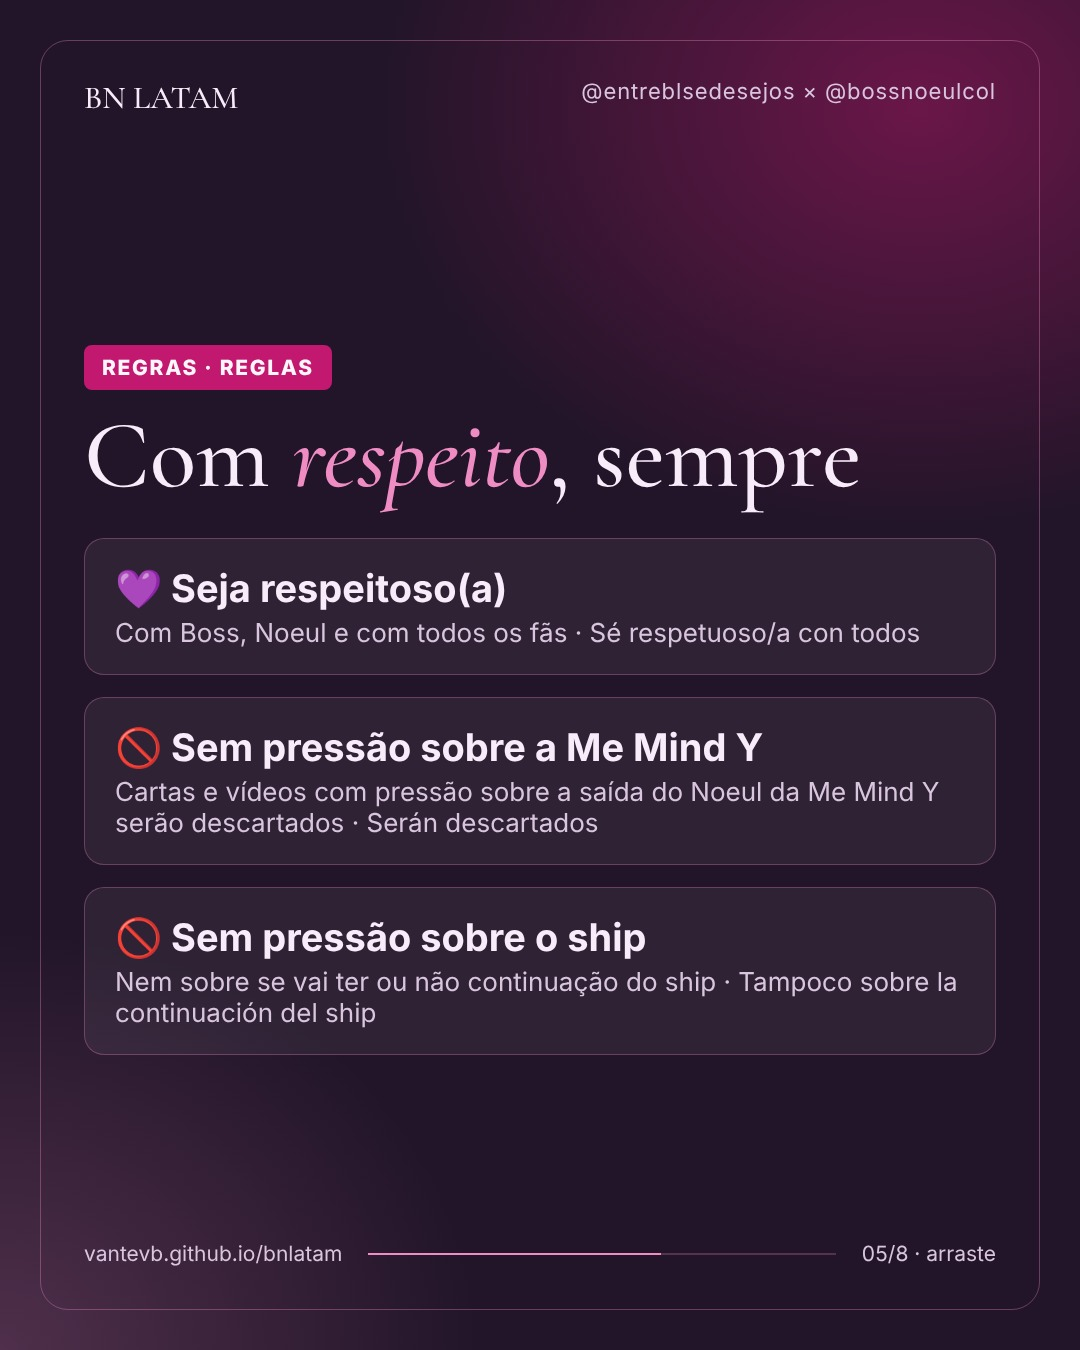
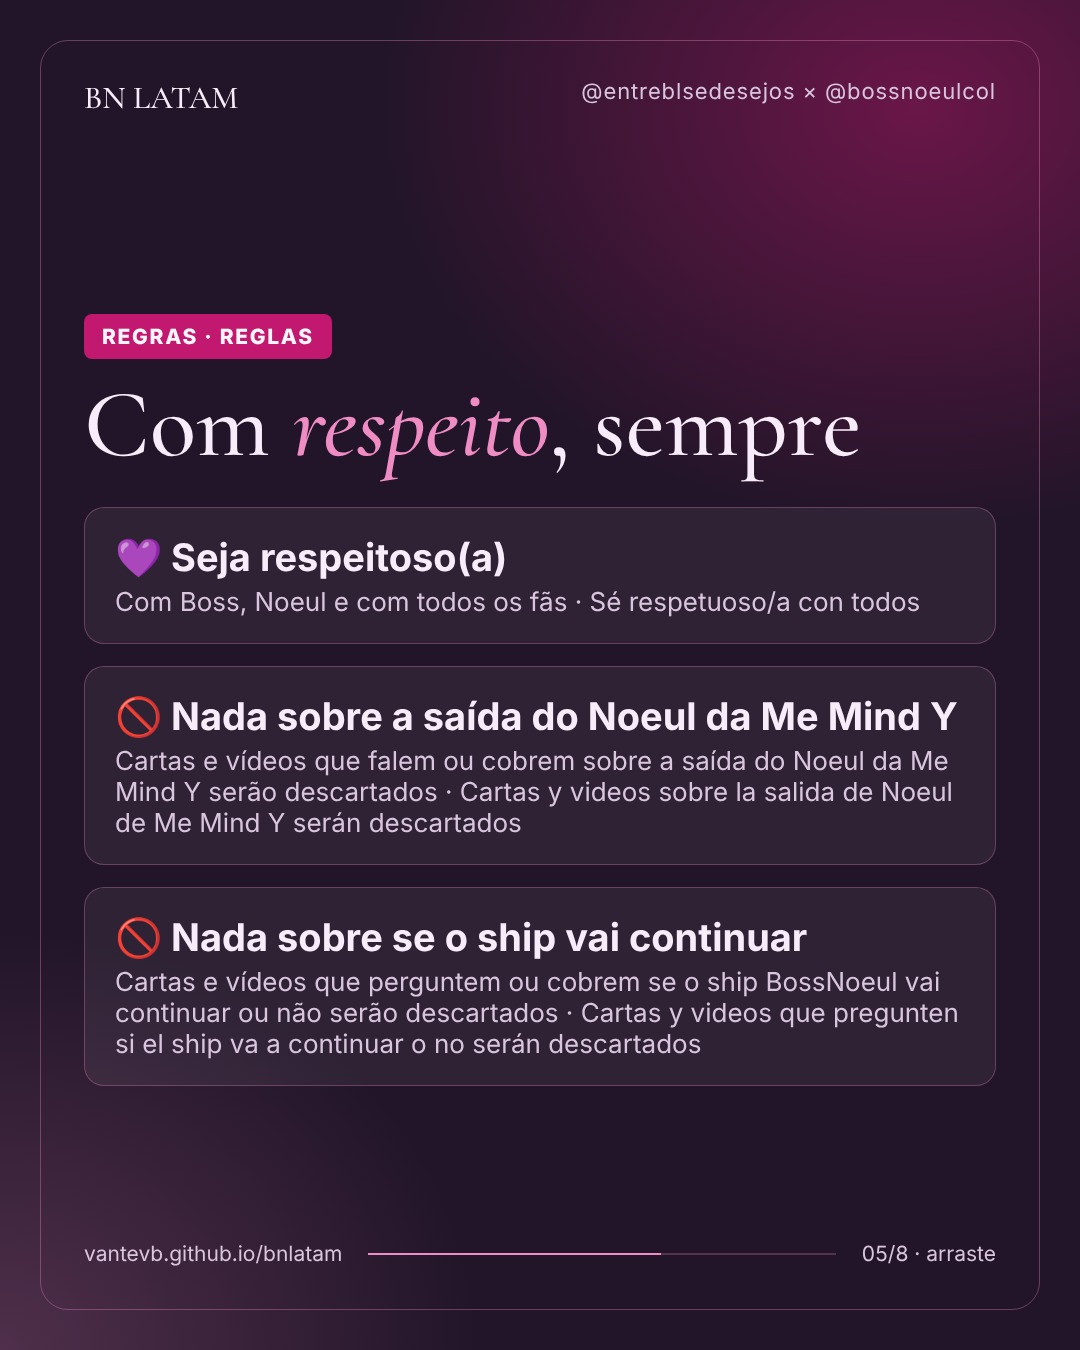
Regras mais claras: saída do Noeul da Me Mind Y e continuação do ship
Claude-Session: https://claude.ai/code/session_01MRpdQbs4myKLU8PEdSBy3X

Changed region(s): [[0.0611, 0.2178, 0.8861, 0.6222], [0.0917, 0.6844, 0.8861, 0.7778], [0.55, 0.3111, 0.7944, 0.4044]]

diff --git a/index.html b/index.html
@@ -189,8 +189,8 @@ button:focus-visible,a:focus-visible,summary:focus-visible{outline:2px solid var
         <h3 class="rules-t" data-i18n="rulesTitle">Rules</h3>
         <ul class="kinds rules">
           <li><b data-i18n="r1t">Be respectful</b><span data-i18n="r1d">With Boss, Noeul and every fan.</span></li>
-          <li class="no"><b data-i18n="r2t">No pressure about Me Mind Y</b><span data-i18n="r2d">Letters and videos pressuring about Noeul leaving Me Mind Y will be discarded.</span></li>
-          <li class="no"><b data-i18n="r3t">No pressure about the ship</b><span data-i18n="r3d">Letters and videos pressuring about whether the ship will continue or not will also be discarded.</span></li>
+          <li class="no"><b data-i18n="r2t">Nothing about Noeul leaving Me Mind Y</b><span data-i18n="r2d">Letters and videos that mention or push about Noeul leaving Me Mind Y will be discarded.</span></li>
+          <li class="no"><b data-i18n="r3t">Nothing about whether the ship will continue</b><span data-i18n="r3d">Letters and videos that ask or push about whether the BossNoeul ship will continue or not will also be discarded.</span></li>
         </ul>
       </div>
       <div class="side">
@@ -237,9 +237,9 @@ button:focus-visible,a:focus-visible,summary:focus-visible{outline:2px solid var
 
 <script>
 const I18N={
- en:{navHow:'How it works',navSend:'Send yours',navWall:'Messages',navFaq:'FAQ',eyebrow:'From Latin America, with love',lead:'Letters, drawings and videos from fans all over Latin America who could not be close to Boss and Noeul, but wanted them to know how much they mean to us.',ctaSend:'Send your message',ctaWall:'See the messages',howTitle:'How it works',howSub:'Every message is read by our team, translated into Thai and placed under your country.',s1t:'Create',s1d:'Write a letter, make a drawing or record a short video for Boss and Noeul.',s2t:'Send',s2d:'Upload it through the form, with your name and country.',s3t:'Translate',s3d:'We translate every message into Thai and publish it here.',s4t:'Show',s4d:'In the video call, we will tell Boss and Noeul the site exists and show it to them on screen. Visiting it and reading the messages is entirely up to them. They have no obligation at all.',rulesTitle:'Rules',r1t:'Be respectful',r1d:'With Boss, Noeul and every fan.',r2t:'No pressure about Me Mind Y',r2d:'Letters and videos pressuring about Noeul leaving Me Mind Y will be discarded.',r3t:'No pressure about the ship',r3d:'Letters and videos pressuring about whether the ship will continue or not will also be discarded.',sendTitle:'Send your message',sendLead:'Choose one or more formats. Any language is welcome.',k1t:'Letter',k1d:'Write it directly in the form, in any language.',k2t:'Drawing',k2d:'Image or PDF, up to 10 MB.',k3t:'Video with subtitles',k3d:'Up to 3 minutes and 1 GB. Subtitles are required (Portuguese, Spanish or English), so we can translate them into Thai.',sendBtn:'Open the form',signin:'To attach files, Google asks you to sign in with a Google account.',wallTitle:'Messages by country',wallSub:'Every card is translated into Thai for Boss and Noeul.',partnersTitle:'Fanbases with us',partnersSub:'This project is made together with fanbases from all over Latin America.',faqTitle:'Questions',q1:'Do I need a Google account?',a1:'Only to attach a drawing or a video, because Google stores the files.',q2:'Why do videos need subtitles?',a2:'So we can translate what you say into Thai. Without subtitles, we cannot guarantee Boss and Noeul will understand your message.',q3:'Which language can I write in?',a3:'Any. Portuguese, Spanish, English, or even Thai. We take care of the translation.',q4:'Who sees my message?',a4:'Everyone who visits this site, and Boss and Noeul. Your email is never published. Only the name you choose and your country appear.',q5:'Is this official?',a5:"No. BN LATAM is an independent fan project by Entre BLs & Desejos, made with love and without any connection to the artists' companies.",q6:'Will Boss and Noeul read my message?',a6:'In the video call, we will tell them the site exists and show it on screen. Whether they visit it and read the messages is entirely up to them. They have no obligation at all.',footer:'A fan project by Entre BLs & Desejos. Independent and unofficial, made with love for Boss Chaikamon and Noeul Nuttarat.',all:'All',messages:'messages',message:'message',countries:'countries',fans:'letters, drawings and videos',empty:'The first messages arrive soon. Be one of them!',letter:'Letter',drawing:'Drawing',video:'Video',watch:'Watch the video',until:'Submissions open until',soon:'Submissions open soon.'},
- pt:{navHow:'Como funciona',navSend:'Envie a sua',navWall:'Mensagens',navFaq:'Dúvidas',eyebrow:'Da América Latina, com amor',lead:'Cartas, desenhos e vídeos de fãs de toda a América Latina que não puderam estar perto de Boss e Noeul, mas queriam que eles soubessem o quanto significam pra gente.',ctaSend:'Mande sua mensagem',ctaWall:'Ver as mensagens',howTitle:'Como funciona',howSub:'Cada mensagem é lida pela nossa equipe, traduzida para o tailandês e colocada no seu país.',s1t:'Crie',s1d:'Escreva uma carta, faça um desenho ou grave um vídeo curto para Boss e Noeul.',s2t:'Envie',s2d:'Mande pelo formulário, com seu nome e seu país.',s3t:'Traduzimos',s3d:'Traduzimos cada mensagem para o tailandês e publicamos aqui.',s4t:'Mostramos',s4d:'Na videochamada, vamos contar ao Boss e ao Noeul que o site existe e mostrar ele na tela. Visitar e ler os recados fica a critério deles. Eles não têm obrigação nenhuma.',rulesTitle:'Regras',r1t:'Seja respeitoso(a)',r1d:'Com Boss, Noeul e com todos os fãs.',r2t:'Sem pressão sobre a Me Mind Y',r2d:'Cartas e vídeos com pressão sobre a saída do Noeul da Me Mind Y serão descartados.',r3t:'Sem pressão sobre o ship',r3d:'Cartas e vídeos com pressão sobre se vai ter ou não continuação do ship também serão descartados.',sendTitle:'Mande sua mensagem',sendLead:'Escolha um ou mais formatos. Qualquer idioma é bem-vindo.',k1t:'Carta',k1d:'Escreva direto no formulário, em qualquer idioma.',k2t:'Desenho',k2d:'Imagem ou PDF, até 10 MB.',k3t:'Vídeo com legenda',k3d:'Até 3 minutos e 1 GB. A legenda é obrigatória (em português, espanhol ou inglês), para conseguirmos traduzir para o tailandês.',sendBtn:'Abrir o formulário',signin:'Para anexar arquivos, o Google pede que você entre com uma conta Google.',wallTitle:'Mensagens por país',wallSub:'Cada cartão é traduzido para o tailandês para Boss e Noeul.',partnersTitle:'Fanbases com a gente',partnersSub:'Este projeto é feito junto com fanbases de toda a América Latina.',faqTitle:'Dúvidas',q1:'Preciso de conta Google?',a1:'Só para anexar desenho ou vídeo, porque os arquivos ficam guardados no Google.',q2:'Por que os vídeos precisam de legenda?',a2:'Para conseguirmos traduzir o que você diz para o tailandês. Sem legenda, não dá para garantir que Boss e Noeul vão entender sua mensagem.',q3:'Em que idioma posso escrever?',a3:'Em qualquer um. Português, espanhol, inglês e até tailandês. A tradução fica com a gente.',q4:'Quem vê a minha mensagem?',a4:'Todo mundo que visita este site, e Boss e Noeul. Seu e-mail nunca é publicado. Aparecem só o nome que você escolher e o seu país.',q5:'É oficial?',a5:'Não. O BN LATAM é um projeto independente de fãs do Entre BLs & Desejos, feito com amor e sem vínculo com as empresas dos artistas.',q6:'O Boss e o Noeul vão ler a minha mensagem?',a6:'Na videochamada, vamos contar a eles que o site existe e mostrar ele na tela. Visitar e ler os recados depois fica totalmente a critério deles. Eles não têm obrigação nenhuma.',footer:'Um projeto de fãs do Entre BLs & Desejos. Independente e não oficial, feito com amor para Boss Chaikamon e Noeul Nuttarat.',all:'Todos',messages:'mensagens',message:'mensagem',countries:'países',fans:'cartas, desenhos e vídeos',empty:'As primeiras mensagens chegam em breve. Seja uma delas!',letter:'Carta',drawing:'Desenho',video:'Vídeo',watch:'Ver o vídeo',until:'Envios abertos até',soon:'Os envios abrem em breve.'},
- es:{navHow:'Cómo funciona',navSend:'Envía el tuyo',navWall:'Mensajes',navFaq:'Preguntas',eyebrow:'Desde Latinoamérica, con amor',lead:'Cartas, dibujos y videos de fans de toda Latinoamérica que no pudieron estar cerca de Boss y Noeul, pero querían que supieran cuánto significan para nosotras.',ctaSend:'Envía tu mensaje',ctaWall:'Ver los mensajes',howTitle:'Cómo funciona',howSub:'Cada mensaje es leído por nuestro equipo, traducido al tailandés y colocado en tu país.',s1t:'Crea',s1d:'Escribe una carta, haz un dibujo o graba un video corto para Boss y Noeul.',s2t:'Envía',s2d:'Súbelo por el formulario, con tu nombre y tu país.',s3t:'Traducimos',s3d:'Traducimos cada mensaje al tailandés y lo publicamos aquí.',s4t:'Mostramos',s4d:'En la videollamada, les contaremos a Boss y Noeul que el sitio existe y se lo mostraremos en pantalla. Visitarlo y leer los mensajes queda a criterio de ellos. No tienen ninguna obligación.',rulesTitle:'Reglas',r1t:'Sé respetuoso/a',r1d:'Con Boss, Noeul y con todos los fans.',r2t:'Sin presión sobre Me Mind Y',r2d:'Las cartas y videos que presionen sobre la salida de Noeul de Me Mind Y serán descartados.',r3t:'Sin presión sobre el ship',r3d:'Las cartas y videos que presionen sobre si habrá o no continuación del ship también serán descartados.',sendTitle:'Envía tu mensaje',sendLead:'Elige uno o más formatos. Cualquier idioma es bienvenido.',k1t:'Carta',k1d:'Escríbela directo en el formulario, en cualquier idioma.',k2t:'Dibujo',k2d:'Imagen o PDF, hasta 10 MB.',k3t:'Video con subtítulos',k3d:'Hasta 3 minutos y 1 GB. Los subtítulos son obligatorios (en español, portugués o inglés), para poder traducirlos al tailandés.',sendBtn:'Abrir el formulario',signin:'Para adjuntar archivos, Google te pide iniciar sesión con una cuenta de Google.',wallTitle:'Mensajes por país',wallSub:'Cada tarjeta se traduce al tailandés para Boss y Noeul.',partnersTitle:'Fanbases con nosotras',partnersSub:'Este proyecto se hace junto con fanbases de toda Latinoamérica.',faqTitle:'Preguntas',q1:'¿Necesito una cuenta de Google?',a1:'Solo para adjuntar un dibujo o un video, porque los archivos se guardan en Google.',q2:'¿Por qué los videos necesitan subtítulos?',a2:'Para poder traducir lo que dices al tailandés. Sin subtítulos, no podemos garantizar que Boss y Noeul entiendan tu mensaje.',q3:'¿En qué idioma puedo escribir?',a3:'En cualquiera. Español, portugués, inglés o incluso tailandés. Nosotras nos encargamos de la traducción.',q4:'¿Quién ve mi mensaje?',a4:'Todas las personas que visitan este sitio, y Boss y Noeul. Tu correo nunca se publica. Solo aparecen el nombre que elijas y tu país.',q5:'¿Es oficial?',a5:'No. BN LATAM es un proyecto independiente de fans de Entre BLs & Desejos, hecho con amor y sin vínculo con las empresas de los artistas.',q6:'¿Boss y Noeul van a leer mi mensaje?',a6:'En la videollamada, les contaremos que el sitio existe y se lo mostraremos en pantalla. Visitarlo y leer los mensajes después queda totalmente a criterio de ellos. No tienen ninguna obligación.',footer:'Un proyecto de fans de Entre BLs & Desejos. Independiente y no oficial, hecho con amor para Boss Chaikamon y Noeul Nuttarat.',all:'Todos',messages:'mensajes',message:'mensaje',countries:'países',fans:'cartas, dibujos y videos',empty:'Los primeros mensajes llegan pronto. ¡Sé uno de ellos!',letter:'Carta',drawing:'Dibujo',video:'Video',watch:'Ver el video',until:'Envíos abiertos hasta',soon:'Los envíos abren pronto.'}
+ en:{navHow:'How it works',navSend:'Send yours',navWall:'Messages',navFaq:'FAQ',eyebrow:'From Latin America, with love',lead:'Letters, drawings and videos from fans all over Latin America who could not be close to Boss and Noeul, but wanted them to know how much they mean to us.',ctaSend:'Send your message',ctaWall:'See the messages',howTitle:'How it works',howSub:'Every message is read by our team, translated into Thai and placed under your country.',s1t:'Create',s1d:'Write a letter, make a drawing or record a short video for Boss and Noeul.',s2t:'Send',s2d:'Upload it through the form, with your name and country.',s3t:'Translate',s3d:'We translate every message into Thai and publish it here.',s4t:'Show',s4d:'In the video call, we will tell Boss and Noeul the site exists and show it to them on screen. Visiting it and reading the messages is entirely up to them. They have no obligation at all.',rulesTitle:'Rules',r1t:'Be respectful',r1d:'With Boss, Noeul and every fan.',r2t:'Nothing about Noeul leaving Me Mind Y',r2d:'Letters and videos that mention or push about Noeul leaving Me Mind Y will be discarded.',r3t:'Nothing about whether the ship will continue',r3d:'Letters and videos that ask or push about whether the BossNoeul ship will continue or not will also be discarded.',sendTitle:'Send your message',sendLead:'Choose one or more formats. Any language is welcome.',k1t:'Letter',k1d:'Write it directly in the form, in any language.',k2t:'Drawing',k2d:'Image or PDF, up to 10 MB.',k3t:'Video with subtitles',k3d:'Up to 3 minutes and 1 GB. Subtitles are required (Portuguese, Spanish or English), so we can translate them into Thai.',sendBtn:'Open the form',signin:'To attach files, Google asks you to sign in with a Google account.',wallTitle:'Messages by country',wallSub:'Every card is translated into Thai for Boss and Noeul.',partnersTitle:'Fanbases with us',partnersSub:'This project is made together with fanbases from all over Latin America.',faqTitle:'Questions',q1:'Do I need a Google account?',a1:'Only to attach a drawing or a video, because Google stores the files.',q2:'Why do videos need subtitles?',a2:'So we can translate what you say into Thai. Without subtitles, we cannot guarantee Boss and Noeul will understand your message.',q3:'Which language can I write in?',a3:'Any. Portuguese, Spanish, English, or even Thai. We take care of the translation.',q4:'Who sees my message?',a4:'Everyone who visits this site, and Boss and Noeul. Your email is never published. Only the name you choose and your country appear.',q5:'Is this official?',a5:"No. BN LATAM is an independent fan project by Entre BLs & Desejos, made with love and without any connection to the artists' companies.",q6:'Will Boss and Noeul read my message?',a6:'In the video call, we will tell them the site exists and show it on screen. Whether they visit it and read the messages is entirely up to them. They have no obligation at all.',footer:'A fan project by Entre BLs & Desejos. Independent and unofficial, made with love for Boss Chaikamon and Noeul Nuttarat.',all:'All',messages:'messages',message:'message',countries:'countries',fans:'letters, drawings and videos',empty:'The first messages arrive soon. Be one of them!',letter:'Letter',drawing:'Drawing',video:'Video',watch:'Watch the video',until:'Submissions open until',soon:'Submissions open soon.'},
+ pt:{navHow:'Como funciona',navSend:'Envie a sua',navWall:'Mensagens',navFaq:'Dúvidas',eyebrow:'Da América Latina, com amor',lead:'Cartas, desenhos e vídeos de fãs de toda a América Latina que não puderam estar perto de Boss e Noeul, mas queriam que eles soubessem o quanto significam pra gente.',ctaSend:'Mande sua mensagem',ctaWall:'Ver as mensagens',howTitle:'Como funciona',howSub:'Cada mensagem é lida pela nossa equipe, traduzida para o tailandês e colocada no seu país.',s1t:'Crie',s1d:'Escreva uma carta, faça um desenho ou grave um vídeo curto para Boss e Noeul.',s2t:'Envie',s2d:'Mande pelo formulário, com seu nome e seu país.',s3t:'Traduzimos',s3d:'Traduzimos cada mensagem para o tailandês e publicamos aqui.',s4t:'Mostramos',s4d:'Na videochamada, vamos contar ao Boss e ao Noeul que o site existe e mostrar ele na tela. Visitar e ler os recados fica a critério deles. Eles não têm obrigação nenhuma.',rulesTitle:'Regras',r1t:'Seja respeitoso(a)',r1d:'Com Boss, Noeul e com todos os fãs.',r2t:'Nada sobre a saída do Noeul da Me Mind Y',r2d:'Cartas e vídeos que falem ou cobrem sobre a saída do Noeul da Me Mind Y serão descartados.',r3t:'Nada sobre se o ship vai continuar',r3d:'Cartas e vídeos que perguntem ou cobrem se o ship BossNoeul vai continuar ou não também serão descartados.',sendTitle:'Mande sua mensagem',sendLead:'Escolha um ou mais formatos. Qualquer idioma é bem-vindo.',k1t:'Carta',k1d:'Escreva direto no formulário, em qualquer idioma.',k2t:'Desenho',k2d:'Imagem ou PDF, até 10 MB.',k3t:'Vídeo com legenda',k3d:'Até 3 minutos e 1 GB. A legenda é obrigatória (em português, espanhol ou inglês), para conseguirmos traduzir para o tailandês.',sendBtn:'Abrir o formulário',signin:'Para anexar arquivos, o Google pede que você entre com uma conta Google.',wallTitle:'Mensagens por país',wallSub:'Cada cartão é traduzido para o tailandês para Boss e Noeul.',partnersTitle:'Fanbases com a gente',partnersSub:'Este projeto é feito junto com fanbases de toda a América Latina.',faqTitle:'Dúvidas',q1:'Preciso de conta Google?',a1:'Só para anexar desenho ou vídeo, porque os arquivos ficam guardados no Google.',q2:'Por que os vídeos precisam de legenda?',a2:'Para conseguirmos traduzir o que você diz para o tailandês. Sem legenda, não dá para garantir que Boss e Noeul vão entender sua mensagem.',q3:'Em que idioma posso escrever?',a3:'Em qualquer um. Português, espanhol, inglês e até tailandês. A tradução fica com a gente.',q4:'Quem vê a minha mensagem?',a4:'Todo mundo que visita este site, e Boss e Noeul. Seu e-mail nunca é publicado. Aparecem só o nome que você escolher e o seu país.',q5:'É oficial?',a5:'Não. O BN LATAM é um projeto independente de fãs do Entre BLs & Desejos, feito com amor e sem vínculo com as empresas dos artistas.',q6:'O Boss e o Noeul vão ler a minha mensagem?',a6:'Na videochamada, vamos contar a eles que o site existe e mostrar ele na tela. Visitar e ler os recados depois fica totalmente a critério deles. Eles não têm obrigação nenhuma.',footer:'Um projeto de fãs do Entre BLs & Desejos. Independente e não oficial, feito com amor para Boss Chaikamon e Noeul Nuttarat.',all:'Todos',messages:'mensagens',message:'mensagem',countries:'países',fans:'cartas, desenhos e vídeos',empty:'As primeiras mensagens chegam em breve. Seja uma delas!',letter:'Carta',drawing:'Desenho',video:'Vídeo',watch:'Ver o vídeo',until:'Envios abertos até',soon:'Os envios abrem em breve.'},
+ es:{navHow:'Cómo funciona',navSend:'Envía el tuyo',navWall:'Mensajes',navFaq:'Preguntas',eyebrow:'Desde Latinoamérica, con amor',lead:'Cartas, dibujos y videos de fans de toda Latinoamérica que no pudieron estar cerca de Boss y Noeul, pero querían que supieran cuánto significan para nosotras.',ctaSend:'Envía tu mensaje',ctaWall:'Ver los mensajes',howTitle:'Cómo funciona',howSub:'Cada mensaje es leído por nuestro equipo, traducido al tailandés y colocado en tu país.',s1t:'Crea',s1d:'Escribe una carta, haz un dibujo o graba un video corto para Boss y Noeul.',s2t:'Envía',s2d:'Súbelo por el formulario, con tu nombre y tu país.',s3t:'Traducimos',s3d:'Traducimos cada mensaje al tailandés y lo publicamos aquí.',s4t:'Mostramos',s4d:'En la videollamada, les contaremos a Boss y Noeul que el sitio existe y se lo mostraremos en pantalla. Visitarlo y leer los mensajes queda a criterio de ellos. No tienen ninguna obligación.',rulesTitle:'Reglas',r1t:'Sé respetuoso/a',r1d:'Con Boss, Noeul y con todos los fans.',r2t:'Nada sobre la salida de Noeul de Me Mind Y',r2d:'Las cartas y videos que hablen o presionen sobre la salida de Noeul de Me Mind Y serán descartados.',r3t:'Nada sobre si el ship va a continuar',r3d:'Las cartas y videos que pregunten o presionen sobre si el ship BossNoeul va a continuar o no también serán descartados.',sendTitle:'Envía tu mensaje',sendLead:'Elige uno o más formatos. Cualquier idioma es bienvenido.',k1t:'Carta',k1d:'Escríbela directo en el formulario, en cualquier idioma.',k2t:'Dibujo',k2d:'Imagen o PDF, hasta 10 MB.',k3t:'Video con subtítulos',k3d:'Hasta 3 minutos y 1 GB. Los subtítulos son obligatorios (en español, portugués o inglés), para poder traducirlos al tailandés.',sendBtn:'Abrir el formulario',signin:'Para adjuntar archivos, Google te pide iniciar sesión con una cuenta de Google.',wallTitle:'Mensajes por país',wallSub:'Cada tarjeta se traduce al tailandés para Boss y Noeul.',partnersTitle:'Fanbases con nosotras',partnersSub:'Este proyecto se hace junto con fanbases de toda Latinoamérica.',faqTitle:'Preguntas',q1:'¿Necesito una cuenta de Google?',a1:'Solo para adjuntar un dibujo o un video, porque los archivos se guardan en Google.',q2:'¿Por qué los videos necesitan subtítulos?',a2:'Para poder traducir lo que dices al tailandés. Sin subtítulos, no podemos garantizar que Boss y Noeul entiendan tu mensaje.',q3:'¿En qué idioma puedo escribir?',a3:'En cualquiera. Español, portugués, inglés o incluso tailandés. Nosotras nos encargamos de la traducción.',q4:'¿Quién ve mi mensaje?',a4:'Todas las personas que visitan este sitio, y Boss y Noeul. Tu correo nunca se publica. Solo aparecen el nombre que elijas y tu país.',q5:'¿Es oficial?',a5:'No. BN LATAM es un proyecto independiente de fans de Entre BLs & Desejos, hecho con amor y sin vínculo con las empresas de los artistas.',q6:'¿Boss y Noeul van a leer mi mensaje?',a6:'En la videollamada, les contaremos que el sitio existe y se lo mostraremos en pantalla. Visitarlo y leer los mensajes después queda totalmente a criterio de ellos. No tienen ninguna obligación.',footer:'Un proyecto de fans de Entre BLs & Desejos. Independiente y no oficial, hecho con amor para Boss Chaikamon y Noeul Nuttarat.',all:'Todos',messages:'mensajes',message:'mensaje',countries:'países',fans:'cartas, dibujos y videos',empty:'Los primeros mensajes llegan pronto. ¡Sé uno de ellos!',letter:'Carta',drawing:'Dibujo',video:'Video',watch:'Ver el video',until:'Envíos abiertos hasta',soon:'Los envíos abren pronto.'}
 };
 const pick=()=>{try{const s=localStorage.getItem('bnl-lang');if(s&&I18N[s])return s}catch(e){}const n=(navigator.language||'pt').slice(0,2);return I18N[n]?n:'pt'};
 let lang=pick(), DATA={config:{},messages:[]}, filter='';
